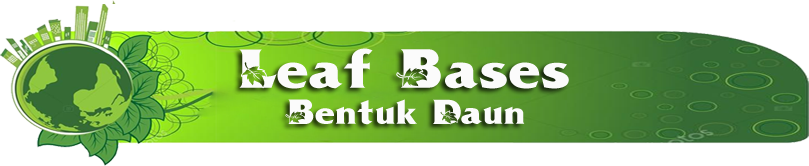
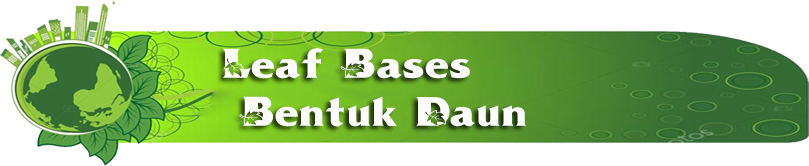
up 2
asd

Changed region(s): [[0.2472, 0.2711, 0.7108, 0.7831]]

diff --git a/www/index.html b/www/index.html
@@ -168,72 +168,23 @@
                     <div class="widget-container content-area horiz-area wrapping-col left"></div>
                     <div class="widget-container content-area horiz-area wrapping-col right"></div>
                 </div>
-                <div class="uib-grid widget uib_w_106 grid-text grid-height d-margins" data-uib="layout/grid" data-ver="1">
-                    <div class="uib-grid-row">
-                        <div class="uib-grid-cell widget-container">
-                            <br>
-                            <a class="uib-graphic-button hover-graphic-button active-graphic-button default-graphic-text widget uib_w_107 d-margins menu btn-menu media-button-text-bottom" data-uib="media/graphic_button" data-ver="0" href="#">
-                                <img src="img/content/menu/menu1.png">
-                                <span class="uib-caption"> </span>
-                            </a>
 
-                        </div>
-                    </div>
-                    <div class="uib-grid-row">
-                        <div class="uib-grid-cell widget-container">
-
-                        </div>
-                    </div>
-                    <div class="uib-grid-row">
-                        <div class="uib-grid-cell widget-container">
-
-                            <a class="uib-graphic-button hover-graphic-button active-graphic-button default-graphic-button default-graphic-text widget uib_w_108 d-margins menu btn-menu media-button-text-bottom" data-uib="media/graphic_button" data-ver="0" href="#">
-                                <img src="img/content/menu/menu2.png">
-                                <span class="uib-caption"> </span>
-                            </a>
-                        </div>
-                    </div>
-                    <div class="uib-grid-row">
-                        <div class="uib-grid-cell widget-container">
-
-                        </div>
-                    </div>
-
-                    <div class="uib-grid-row">
-                        <div class="uib-grid-cell widget-container">
-                            <a class="uib-graphic-button hover-graphic-button active-graphic-button default-graphic-text widget uib_w_109 d-margins btn-menu menu media-button-text-bottom" data-uib="media/graphic_button" data-ver="0" href="#">
-                                <img src="img/content/menu/menu3.png">
-                                <span class="uib-caption"> </span>
-                            </a>
-                        </div>
-                    </div>
-                    <div class="uib-grid-row">
-                        <div class="uib-grid-cell widget-container"></div>
-                    </div>
-                    <div class="uib-grid-row">
-                        <div class="uib-grid-cell widget-container">
-                            <a class="uib-graphic-button hover-graphic-button active-graphic-button default-graphic-button default-graphic-text widget uib_w_110 d-margins btn-menu menu media-button-text-bottom" data-uib="media/graphic_button" data-ver="0" href="#">
-                                <img src="img/content/menu/menu4.png">
-                                <span class="uib-caption"> </span>
-                            </a>
-                        </div>
-                    </div>
-                    <div class="uib-grid-row">
-                        <div class="uib-grid-cell widget-container"></div>
-                    </div>
-                    <div class="uib-grid-row">
-                        <div class="uib-grid-cell widget-container">
-                            <a class="uib-graphic-button hover-graphic-button active-graphic-button default-graphic-button default-graphic-text widget uib_w_114 d-margins btn-menu menu media-button-text-bottom" data-uib="media/graphic_button" data-ver="0" href="#">
-                                <img src="img/content/menu/menu5.png">
-                                <span class="uib-caption"> </span>
-                            </a>
-                        </div>
-                    </div>
-                </div>
                 <div class="upage-content ac0 content-area wrapping-col left" id="page_74_55">
 
-                    <span class="uib_shim"></span>
-
+                    <div class="list-group widget uib_w_127 d-margins list" data-uib="twitter%20bootstrap/list_group" data-ver="1">
+                        <a class="list-group-item allow-badge widget uib_w_128 d-margins list1" data-uib="twitter%20bootstrap/list_item" data-ver="1">
+                            <h4 class="list-group-item-heading"> a</h4>
+                            <p class="list-group-item-text">a</p>
+                        </a>
+                        <a class="list-group-item allow-badge widget uib_w_129 list2" data-uib="twitter%20bootstrap/list_item" data-ver="1">
+                            <h4 class="list-group-item-heading">Heading</h4>
+                            <p class="list-group-item-text">List item</p>
+                        </a>
+                        <a class="list-group-item allow-badge widget uib_w_130" data-uib="twitter%20bootstrap/list_item" data-ver="1">
+                            <h4 class="list-group-item-heading">Heading</h4>
+                            <p class="list-group-item-text">List item</p>
+                        </a>
+                    </div><span class="uib_shim"></span>
                 </div>
                 <div class="uib-footer uib-footer-fixed container-group inner-element uib_w_11 foot2 foot-global" data-uib="layout/footer" data-ver="0">
                     <h2></h2>
@@ -3932,7 +3883,7 @@
                 <li><a href="#" class="header"><i>Oxalidaceae</i></a>
                 </li>
                 <li><a id="list-data15" href="#"><i>Averrhoa carambola</i> L.</a>
-                        </li>
+                </li>
                 <li><a href="#" class="header"><i>Myrtaceae</i></a>
                 </li>
                 <li><a id="list-data2" href="#"><i>Syzygium campanulatum</i> Korth.</a>

diff --git a/www/css/index_main.less.css b/www/css/index_main.less.css
@@ -1923,3 +1923,74 @@ body#afui .splt {
     background-attachment: fixed;
   }
 }
+.allow-badge > .badge.glyphicon {
+  display: inline-block;
+}
+.list-group .d-margins {
+  margin: 0;
+}
+/*
+	.list
+	.list > .list-group-item
+	.list > .list-group-item > .list-group-item-heading
+	.list > .list-group-item > .list-group-item-text
+*/
+.list {
+  width: 100%;
+}
+/*
+	.list1
+	.list1 > h4.list-group-item-heading
+	
+.list1 > .list-group-item-text
+*/
+h4.list-group-item-heading {
+  text-indent: 100%;
+  white-space: nowrap;
+  overflow: hidden;
+}
+.list-group-item-text {
+  text-indent: 100%;
+  white-space: nowrap;
+  overflow: hidden;
+}
+.list1 {
+  text-align: right;
+  color: white;
+  font-size: 15px;
+  background: transparent;
+  background-image: url('../img/content/menu/menu1.png');
+  /*background-position: 6px 2px;
+  */
+  background-size: 85% 105%;
+  background-repeat: no-repeat;
+  min-height: 0px;
+}
+/*
+	.list1
+	.list1 > h4.list-group-item-heading
+	
+.list1 > .list-group-item-text
+*/
+h4.list-group-item-heading {
+  text-indent: 100%;
+  white-space: nowrap;
+  overflow: hidden;
+}
+.list-group-item-text {
+  text-indent: 100%;
+  white-space: nowrap;
+  overflow: hidden;
+}
+.list2 {
+  text-align: right;
+  color: white;
+  font-size: 15px;
+  background: transparent;
+  background-image: url('../img/content/menu/menu2.png');
+  /*background-position: 6px 2px;
+  */
+  background-size: 85% 105%;
+  background-repeat: no-repeat;
+  min-height: 0px;
+}

diff --git a/www/css/index/styles/list1 -- custom.less b/www/css/index/styles/list1 -- custom.less
@@ -1,0 +1,32 @@
+/*
+	.list1
+	.list1 > h4.list-group-item-heading
+	
+.list1 > .list-group-item-text
+*/
+h4.list-group-item-heading
+{
+text-indent: 100%;
+    white-space: nowrap;
+    overflow: hidden;
+}
+.list-group-item-text
+{
+text-indent: 100%;
+    white-space: nowrap;
+    overflow: hidden;
+}
+.list1 {
+  
+ text-align: right;
+  color: white;
+  font-size: 15px;
+  background: transparent;
+  background-image: url('../img/content/menu/menu1.png');
+  /*background-position: 6px 2px;
+  */
+  background-size: 85% 105%;
+  background-repeat: no-repeat;
+  min-height: 0px;
+
+}

diff --git a/www/css/index/styles/list2 -- custom.less b/www/css/index/styles/list2 -- custom.less
@@ -1,0 +1,32 @@
+/*
+	.list1
+	.list1 > h4.list-group-item-heading
+	
+.list1 > .list-group-item-text
+*/
+h4.list-group-item-heading
+{
+text-indent: 100%;
+    white-space: nowrap;
+    overflow: hidden;
+}
+.list-group-item-text
+{
+text-indent: 100%;
+    white-space: nowrap;
+    overflow: hidden;
+}
+.list2 {
+  
+ text-align: right;
+  color: white;
+  font-size: 15px;
+  background: transparent;
+  background-image: url('../img/content/menu/menu2.png');
+  /*background-position: 6px 2px;
+  */
+  background-size: 85% 105%;
+  background-repeat: no-repeat;
+  min-height: 0px;
+
+}

diff --git a/www/css/index/index_main.less b/www/css/index/index_main.less
@@ -66,3 +66,10 @@
 @import "styles/bntkdaun -- graphic_sizing.less";
 @import "styles/daun -- graphic_image_sizing.less";
 @import "styles/bntk -- background_page.less";
+@import "bootstrap-list-item.less";
+@import "bootstrap-list-item.less";
+@import "bootstrap-list-item.less";
+@import "bootstrap-list-group.less";
+@import "styles/list -- custom.less";
+@import "styles/list1 -- custom.less";
+@import "styles/list2 -- custom.less";

diff --git a/www/css/index/styles/list -- custom.less b/www/css/index/styles/list -- custom.less
@@ -1,0 +1,9 @@
+/*
+	.list
+	.list > .list-group-item
+	.list > .list-group-item > .list-group-item-heading
+	.list > .list-group-item > .list-group-item-text
+*/
+.list {
+width:100%;
+}

diff --git a/www/css/index/bootstrap-list-item.less b/www/css/index/bootstrap-list-item.less
@@ -1,0 +1,1 @@
+.allow-badge > .badge.glyphicon { display:inline-block; }

diff --git a/www/css/index/bootstrap-list-group.less b/www/css/index/bootstrap-list-group.less
@@ -1,0 +1,1 @@
+.list-group .d-margins { margin: 0; }
